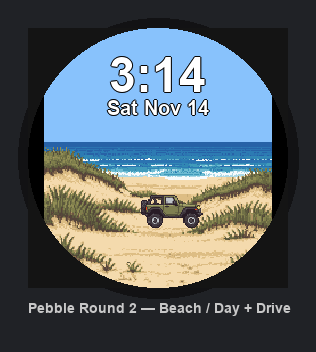
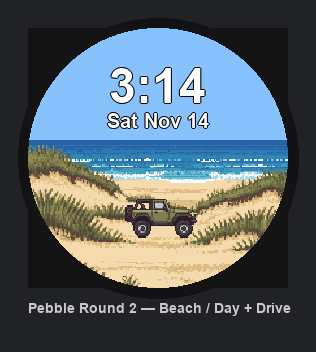
Fix Round 2 letterboxing by cover-scaling scenes to fill the circle.

Changed region(s): [[0.0854, 0.1562, 0.9114, 0.8125]]

diff --git a/src/c/main.c b/src/c/main.c
@@ -51,6 +51,10 @@ static AppTimer *s_drive_timer;
 static int s_last_drive_hour = -1;
 static int s_bounds_w;
 static int s_bounds_h;
+/* Where the 200x228 scene is drawn (may be larger than the screen on round). */
+static GRect s_scene_dest;
+#define SCENE_ASSET_W 200
+#define SCENE_ASSET_H 228
 
 /* Terrain Y (road surface) sampled across asset width 200, for each scene. */
 static const uint8_t s_terrain[NUM_SCENES][TERRAIN_SAMPLES] = {
@@ -151,24 +155,47 @@ static void ensure_scene_loaded(int scene) {
   s_loaded_scene = scene;
 }
 
-static int terrain_y_at(int scene, int x, int width) {
-  if (width <= 1) {
+/* Cover-scale 200x228 art into the display (fills round screens with no letterbox). */
+static GRect scene_dest_for_bounds(GRect bounds) {
+#ifdef PBL_ROUND
+  /* scale = max(bounds.w/200, bounds.h/228) using integer math */
+  int scale_w = (bounds.size.w * 1000) / SCENE_ASSET_W;
+  int scale_h = (bounds.size.h * 1000) / SCENE_ASSET_H;
+  int scale = scale_w > scale_h ? scale_w : scale_h;
+  int draw_w = (SCENE_ASSET_W * scale) / 1000;
+  int draw_h = (SCENE_ASSET_H * scale) / 1000;
+  /* Guarantees full cover even with rounding */
+  if (draw_w < bounds.size.w) draw_w = bounds.size.w;
+  if (draw_h < bounds.size.h) draw_h = bounds.size.h;
+  return GRect((bounds.size.w - draw_w) / 2, (bounds.size.h - draw_h) / 2, draw_w, draw_h);
+#else
+  return bounds;
+#endif
+}
+
+static int terrain_y_at(int scene, int x) {
+  GRect dest = s_scene_dest;
+  if (dest.size.w <= 1) {
     return s_bounds_h * 3 / 4;
   }
-  /* Map watch X into asset-space sample index (assets are 200 wide). */
-  int asset_x = (x * 199) / (width > 1 ? width - 1 : 1);
+  /* Map screen X into asset X via the scene dest rect. */
+  int local_x = x - dest.origin.x;
+  if (local_x < 0) local_x = 0;
+  if (local_x >= dest.size.w) local_x = dest.size.w - 1;
+  int asset_x = (local_x * (SCENE_ASSET_W - 1)) / (dest.size.w > 1 ? dest.size.w - 1 : 1);
   if (asset_x < 0) asset_x = 0;
-  if (asset_x > 199) asset_x = 199;
-  int idx = (asset_x * (TERRAIN_SAMPLES - 1)) / 199;
+  if (asset_x > SCENE_ASSET_W - 1) asset_x = SCENE_ASSET_W - 1;
+
+  int idx = (asset_x * (TERRAIN_SAMPLES - 1)) / (SCENE_ASSET_W - 1);
   int next = idx + 1;
   if (next >= TERRAIN_SAMPLES) next = TERRAIN_SAMPLES - 1;
-  int frac = (asset_x * (TERRAIN_SAMPLES - 1)) % 199;
+  int span = SCENE_ASSET_W - 1;
+  int frac = (asset_x * (TERRAIN_SAMPLES - 1)) % (span > 0 ? span : 1);
   int y0 = s_terrain[scene][idx];
   int y1 = s_terrain[scene][next];
-  int asset_y = y0 + ((y1 - y0) * frac) / 199;
+  int asset_y = y0 + ((y1 - y0) * frac) / (span > 0 ? span : 1);
 
-  /* Scale asset Y (0..227) into current display height. */
-  return (asset_y * s_bounds_h) / 228;
+  return dest.origin.y + (asset_y * dest.size.h) / SCENE_ASSET_H;
 }
 
 static void draw_sky_overlay(GContext *ctx, GRect bounds, TimeOfDay tod) {
@@ -243,33 +270,38 @@ static void canvas_update(Layer *layer, GContext *ctx) {
 
   ensure_scene_loaded(scene);
 
-  graphics_context_set_fill_color(ctx, GColorBlack);
+  s_scene_dest = scene_dest_for_bounds(bounds);
+
+  /* Match letterbox leftover to sky so round never shows black bars. */
+  GColor fill = GColorBlack;
+  if (tod == TOD_MORNING) fill = GColorPictonBlue;
+  else if (tod == TOD_DAY) fill = GColorPictonBlue;
+  else if (tod == TOD_EVENING) fill = GColorOxfordBlue;
+  graphics_context_set_fill_color(ctx, fill);
   graphics_fill_rect(ctx, bounds, 0, GCornerNone);
 
   if (s_scene_bitmap) {
     graphics_context_set_compositing_mode(ctx, GCompOpSet);
-#ifdef PBL_ROUND
-    /* Center 200x228 art on the round canvas, scaled to fill height. */
-    int draw_h = bounds.size.h;
-    int draw_w = (200 * draw_h) / 228;
-    int ox = (bounds.size.w - draw_w) / 2;
-    graphics_draw_bitmap_in_rect(ctx, s_scene_bitmap, GRect(ox, 0, draw_w, draw_h));
-#else
-    graphics_draw_bitmap_in_rect(ctx, s_scene_bitmap, bounds);
-#endif
+    graphics_draw_bitmap_in_rect(ctx, s_scene_bitmap, s_scene_dest);
   }
 
   draw_sky_overlay(ctx, bounds, tod);
 
   if (s_driving && s_jeep_frames[s_jeep_frame % NUM_JEEP_FRAMES]) {
-    int road = terrain_y_at(scene, s_jeep_x + JEEP_W / 2, bounds.size.w);
-    int jeep_y = road - JEEP_H + 6;
-    /* Mild suspension bounce from frame index */
+#ifdef PBL_ROUND
+    int jeep_w = (JEEP_W * s_scene_dest.size.w) / SCENE_ASSET_W;
+    int jeep_h = (JEEP_H * s_scene_dest.size.h) / SCENE_ASSET_H;
+#else
+    int jeep_w = JEEP_W;
+    int jeep_h = JEEP_H;
+#endif
+    int road = terrain_y_at(scene, s_jeep_x + jeep_w / 2);
+    int jeep_y = road - jeep_h + (jeep_h / 10);
     jeep_y += ((s_jeep_frame % 2) ? 1 : 0);
     if (jeep_y < 0) jeep_y = 0;
     graphics_context_set_compositing_mode(ctx, GCompOpSet);
     graphics_draw_bitmap_in_rect(ctx, s_jeep_frames[s_jeep_frame % NUM_JEEP_FRAMES],
-                                 GRect(s_jeep_x, jeep_y, JEEP_W, JEEP_H));
+                                 GRect(s_jeep_x, jeep_y, jeep_w, jeep_h));
   }
 }
 
@@ -327,9 +359,16 @@ static void drive_timer_cb(void *context) {
   s_jeep_frame = (s_jeep_frame + 1) % NUM_JEEP_FRAMES;
   layer_mark_dirty(s_canvas);
 
-  if (s_jeep_x > s_bounds_w + 8) {
-    s_driving = false;
-    return;
+  {
+#ifdef PBL_ROUND
+    int jeep_w = (JEEP_W * (s_scene_dest.size.w > 0 ? s_scene_dest.size.w : s_bounds_w)) / SCENE_ASSET_W;
+#else
+    int jeep_w = JEEP_W;
+#endif
+    if (s_jeep_x > s_bounds_w + jeep_w) {
+      s_driving = false;
+      return;
+    }
   }
   s_drive_timer = app_timer_register(DRIVE_TICK_MS, drive_timer_cb, NULL);
 }
@@ -349,7 +388,11 @@ static void start_drive(struct tm *t) {
   settings_save();
 
   s_driving = true;
+#ifdef PBL_ROUND
+  s_jeep_x = -((JEEP_W * (s_bounds_w > 0 ? s_bounds_w : 260)) / SCENE_ASSET_W);
+#else
   s_jeep_x = -JEEP_W;
+#endif
   s_jeep_frame = 0;
   if (s_settings.vibrate_on_drive) {
     vibes_short_pulse();
